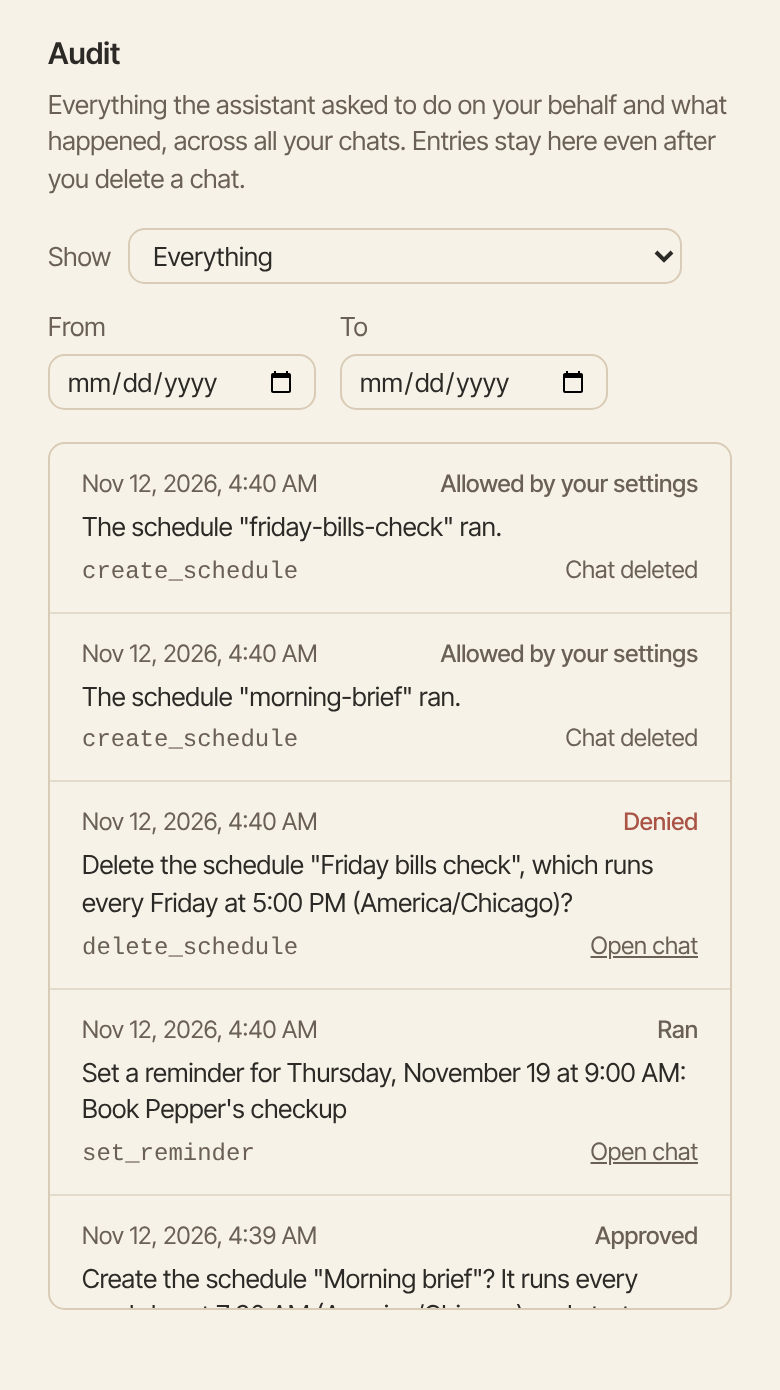
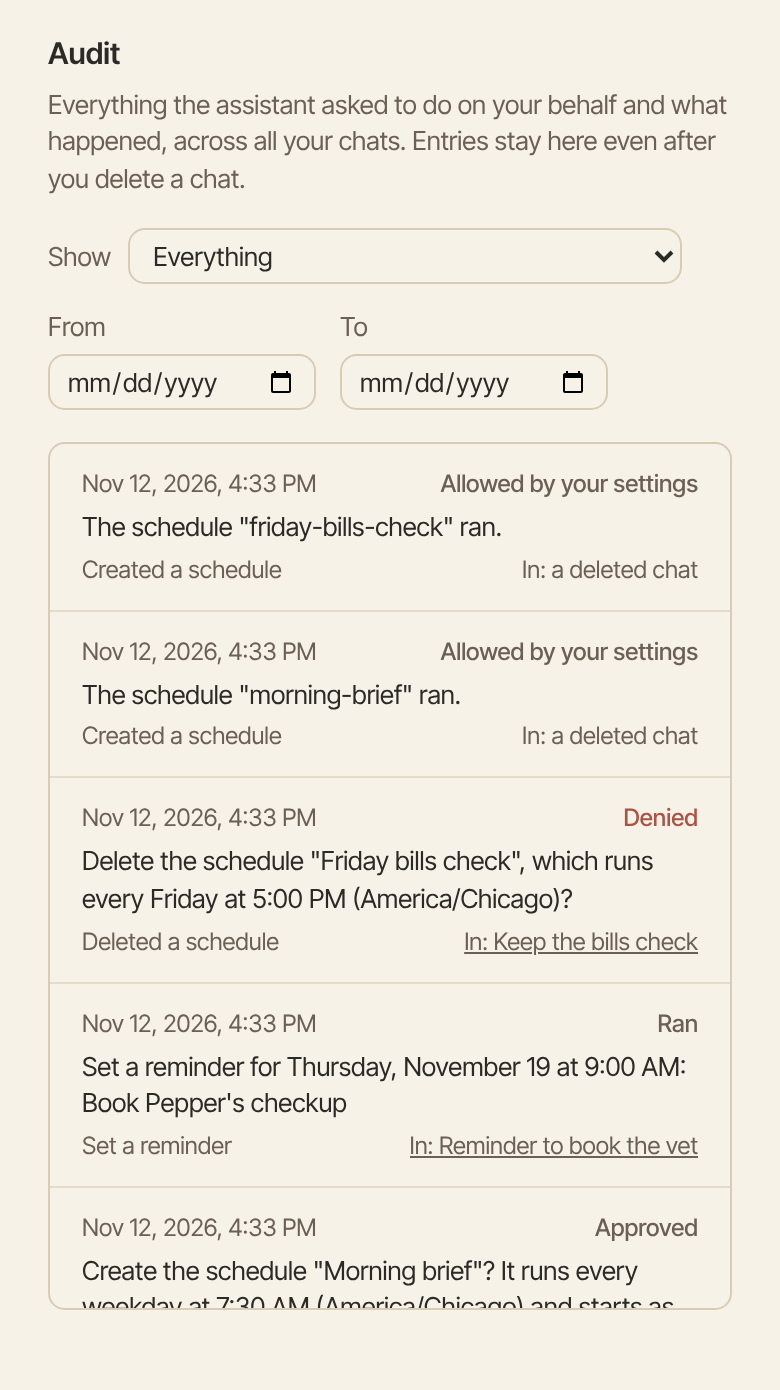
Audit help and pictures show the chat name on each line

Changed region(s): [[0.0923, 0.4022, 0.8923, 0.959], [0.5538, 0.4022, 0.8923, 0.5259], [0.3077, 0.3403, 0.4, 0.3712]]

diff --git a/packages/trueforge/src/personas/amanGuide/knowledgePack.generated.ts b/packages/trueforge/src/personas/amanGuide/knowledgePack.generated.ts
@@ -12,7 +12,7 @@ export const AMAN_GUIDE_TOPICS: readonly AmanGuideTopic[] = [
     id: 'activity-log',
     title: 'Activity log',
     covers: ['settings:audit', 'route:auditLog'],
-    body: 'The activity log lists everything Aman did or asked to do for you, across all your chats. Use it to check what happened and what you decided.\n\nHow to get there: Click **More** in the left bar, then **Settings**, then **Audit**.\n\n=== "Computer"\n\n    ![The Audit page in Settings, listing actions with their time and outcome](../../../../docs/screenshots/app/activity-log-list-desktop.png)\n\n=== "Phone"\n\n    ![The Audit page in Settings, listing actions with their time and outcome](../../../../docs/screenshots/app/activity-log-list-phone.png)\n\n## Look through the log\n\n1. Click **More** in the left bar, click **Settings**, then click **Audit**.\n2. Read the list. The newest action is at the top. Each line shows when it happened, what Aman did in plain words, such as "Sent an email", and what came of it.\n3. Click **Open chat** on a line to go to the chat it came from.\n4. Click **Load more** at the bottom to see older actions.\n\n## Find one action\n\n1. Pick what to **Show**, such as **Approved** or **Denied**. Pick **Everything** to see all of them again.\n2. To see certain days, pick a **From** day and a **To** day. Days follow your own clock, and both days are included.\n3. Click **Clear dates** to see every day again.\n\n## What each outcome means\n\n| Outcome                      | What it means                                                |\n| ---------------------------- | ------------------------------------------------------------ |\n| **Allowed by your settings** | It ran without a card, because your settings allow it.       |\n| **Waiting for you**          | A card is waiting for your answer.                           |\n| **Ran**                      | It ran.                                                      |\n| **Approved**                 | You answered the card with yes.                              |\n| **Denied**                   | You said no, so it didn\'t run.                               |\n| **Refused**                  | Aman refused it without a card, for example in offline mode. |\n\n## Good to know\n\n- The log stays when you delete a chat. Those lines say "Chat deleted" instead of a link.\n- The log only shows what happened. You can\'t change or delete lines here.\n- Each change a scheduled run makes to a space is a line in the log too.\n- The log keeps a short line about each action, even from an incognito chat. That line can repeat words from the action, such as the address an email went to.\n\n## Related\n\n- [Approval cards](approvals.md)\n- [Permissions and offline mode](permissions.md)\n- [Your privacy](privacy.md)',
+    body: 'The activity log lists everything Aman did or asked to do for you, across all your chats. Use it to check what happened and what you decided.\n\nHow to get there: Click **More** in the left bar, then **Settings**, then **Audit**.\n\n=== "Computer"\n\n    ![The Audit page in Settings, listing actions with their time and outcome](../../../../docs/screenshots/app/activity-log-list-desktop.png)\n\n=== "Phone"\n\n    ![The Audit page in Settings, listing actions with their time and outcome](../../../../docs/screenshots/app/activity-log-list-phone.png)\n\n## Look through the log\n\n1. Click **More** in the left bar, click **Settings**, then click **Audit**.\n2. Read the list. The newest action is at the top. Each line shows when it happened, what Aman did in plain words, such as "Sent an email", and what came of it.\n3. Each line ends with "In:" and the name of the chat it came from. Click the name to open that chat.\n4. Click **Load more** at the bottom to see older actions.\n\n## Find one action\n\n1. Pick what to **Show**, such as **Approved** or **Denied**. Pick **Everything** to see all of them again.\n2. To see certain days, pick a **From** day and a **To** day. Days follow your own clock, and both days are included.\n3. Click **Clear dates** to see every day again.\n\n## What each outcome means\n\n| Outcome                      | What it means                                                |\n| ---------------------------- | ------------------------------------------------------------ |\n| **Allowed by your settings** | It ran without a card, because your settings allow it.       |\n| **Waiting for you**          | A card is waiting for your answer.                           |\n| **Ran**                      | It ran.                                                      |\n| **Approved**                 | You answered the card with yes.                              |\n| **Denied**                   | You said no, so it didn\'t run.                               |\n| **Refused**                  | Aman refused it without a card, for example in offline mode. |\n\n## Good to know\n\n- The log stays when you delete a chat. Those lines say "In: a deleted chat" instead of a link.\n- The log only shows what happened. You can\'t change or delete lines here.\n- Each change a scheduled run makes to a space is a line in the log too.\n- The log keeps a short line about each action, even from an incognito chat. That line can repeat words from the action, such as the address an email went to.\n\n## Related\n\n- [Approval cards](approvals.md)\n- [Permissions and offline mode](permissions.md)\n- [Your privacy](privacy.md)',
   },
   {
     id: 'agents',

diff --git a/packages/trueforge/guide/topics/activity-log.md b/packages/trueforge/guide/topics/activity-log.md
@@ -20,7 +20,7 @@ How to get there: Click **More** in the left bar, then **Settings**, then **Audi
 
 1. Click **More** in the left bar, click **Settings**, then click **Audit**.
 2. Read the list. The newest action is at the top. Each line shows when it happened, what Aman did in plain words, such as "Sent an email", and what came of it.
-3. Click **Open chat** on a line to go to the chat it came from.
+3. Each line ends with "In:" and the name of the chat it came from. Click the name to open that chat.
 4. Click **Load more** at the bottom to see older actions.
 
 ## Find one action
@@ -42,7 +42,7 @@ How to get there: Click **More** in the left bar, then **Settings**, then **Audi
 
 ## Good to know
 
-- The log stays when you delete a chat. Those lines say "Chat deleted" instead of a link.
+- The log stays when you delete a chat. Those lines say "In: a deleted chat" instead of a link.
 - The log only shows what happened. You can't change or delete lines here.
 - Each change a scheduled run makes to a space is a line in the log too.
 - The log keeps a short line about each action, even from an incognito chat. That line can repeat words from the action, such as the address an email went to.
